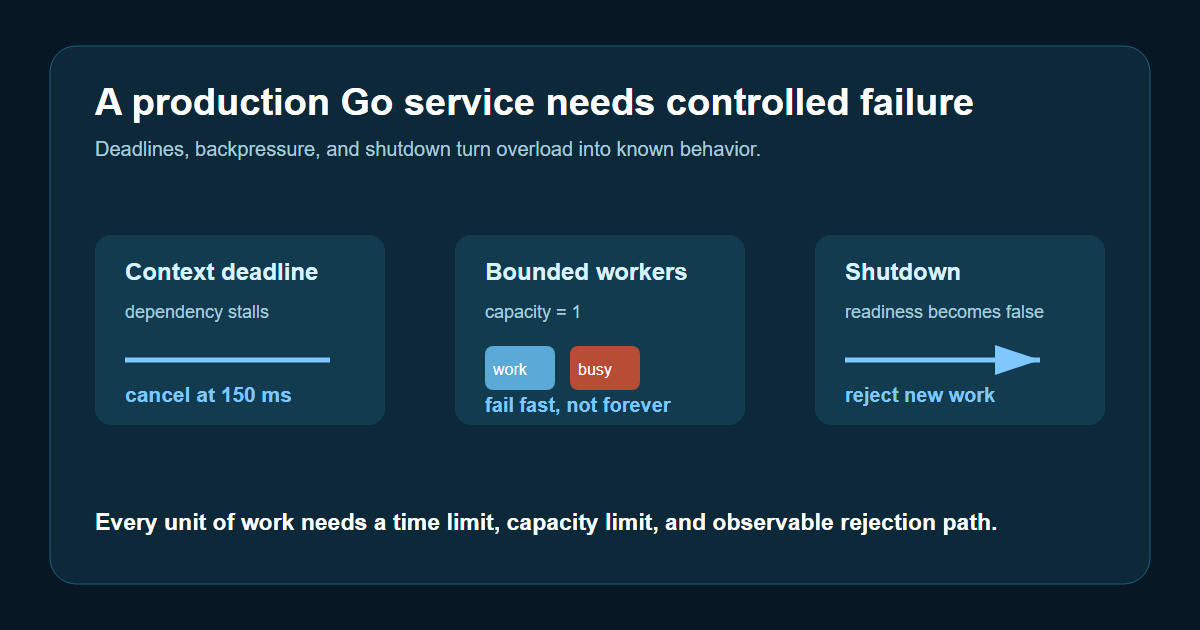
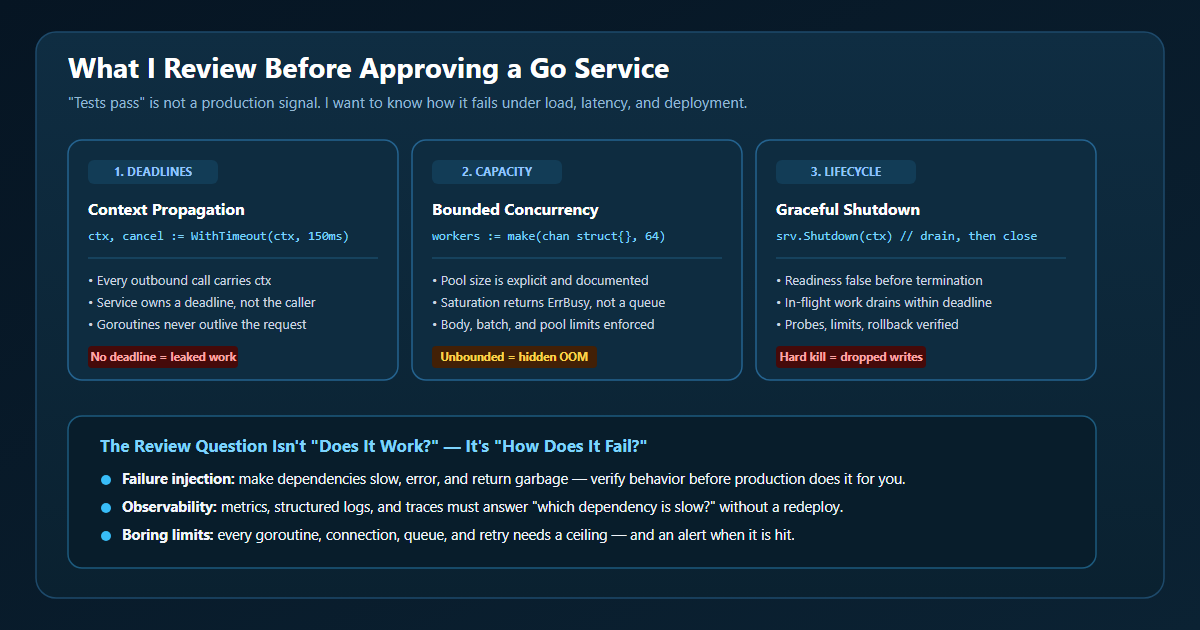
Enhance Go production readiness infographic and article copy

Changed region(s): [[0.0308, 0.0302, 0.9867, 0.9651], [0.9558, 0.573, 0.9867, 0.8746]]

diff --git a/posts/04-go-production-readiness.md b/posts/04-go-production-readiness.md
@@ -2,28 +2,67 @@
 
 ![Go production workflow](graphics/04-go-production-readiness.svg)
 
-For a Go service, “the tests pass” is not a production-readiness signal. I want to know what happens when dependencies stall, traffic bursts, and a deployment asks the process to stop.
+For a Go service, "the tests pass" is not a production-readiness signal. I want to know what happens when dependencies stall, traffic bursts, and a deployment asks the process to stop.
 
-Three checks catch a large class of operational failures:
+Three checks catch a large class of operational failures.
 
-**Deadline propagation**
+## 1. Deadline propagation
 
-Every dependency call needs the request context and a service-owned deadline. Otherwise a slow downstream system can retain goroutines, sockets, and memory indefinitely.
+Every dependency call needs the request context and a service-owned deadline. Without one, a slow downstream system retains goroutines, sockets, and memory indefinitely — and the leak is invisible until the pod is killed.
 
-**Bounded concurrency**
+```go
+ctx, cancel := context.WithTimeout(ctx, 150*time.Millisecond)
+defer cancel()
+return s.dependency.Fetch(ctx, id)
+```
 
-Unlimited goroutines are not backpressure. A bounded worker pool fails fast when the service is saturated, allowing callers, load balancers, and autoscaling systems to see the pressure rather than hiding it in an ever-growing queue.
+The deadline must reach the dependency. A context that is created but never passed is decoration.
 
-**Predictable shutdown**
+## 2. Bounded concurrency
 
-Once shutdown begins, stop accepting new work. Let in-flight work finish only within its deadline. Readiness should become false before termination so Kubernetes can remove the pod from traffic.
+Unlimited goroutines are not backpressure. A bounded pool fails fast when the service is saturated, which lets callers, load balancers, and autoscalers see pressure instead of hiding it in an ever-growing queue.
 
-The runtime test suite simulates a dependency that never returns. It verifies that the dependency receives cancellation, a second request gets `ErrBusy` rather than queueing forever, and shutdown rejects new work.
+```go
+workers := make(chan struct{}, 64)
 
-Run the demonstration:
+select {
+case workers <- struct{}{}:
+    defer func() { <-workers }()
+default:
+    return ErrBusy
+}
+```
 
-```text
+Returning `ErrBusy` is a feature. A fast rejection with a metric attached is easier to reason about than a request that silently waits 40 seconds for a slot.
+
+## 3. Predictable shutdown
+
+Once shutdown begins, stop accepting new work. Let in-flight work finish only within its deadline. Readiness should become false before termination so Kubernetes removes the pod from traffic.
+
+```go
+func (s *Service) Shutdown() {
+    s.once.Do(func() { close(s.stopping) })
+}
+```
+
+A hard kill drops writes that were already accepted. Draining within a deadline converts an outage into a controlled, observable event.
+
+## What else I check
+
+- Error handling with context and classification, not the same error logged at every layer
+- Connection pool, request body, and queue size limits under real load
+- Readiness vs. liveness separation
+- Resource requests and limits that match measured behavior
+- Rollback path and configuration validation at startup
+- Metrics, structured logs, and traces that answer "which dependency is slow?"
+
+## Hands-on demonstration
+
+The repository includes a test suite that simulates a dependency that never returns. It verifies cancellation reaches the dependency, a second request gets `ErrBusy` instead of queueing forever, and shutdown rejects new work.
+
+```bash
 cd 04-go-production-readiness
+go test ./...
 ```
 
 Source: https://github.com/ArpitUS/linkedin-engineering-demos/tree/master/04-go-production-readiness
